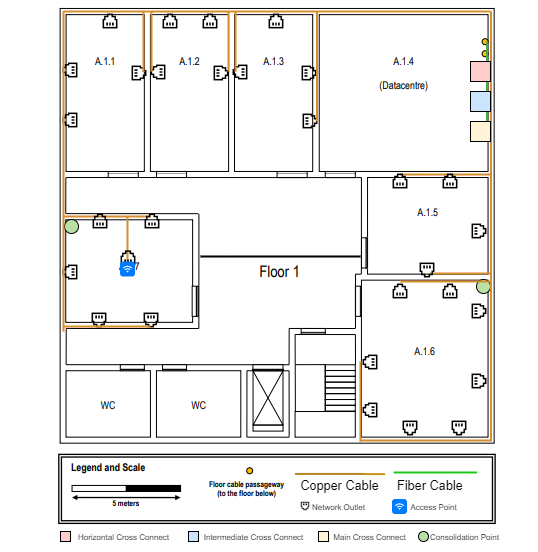
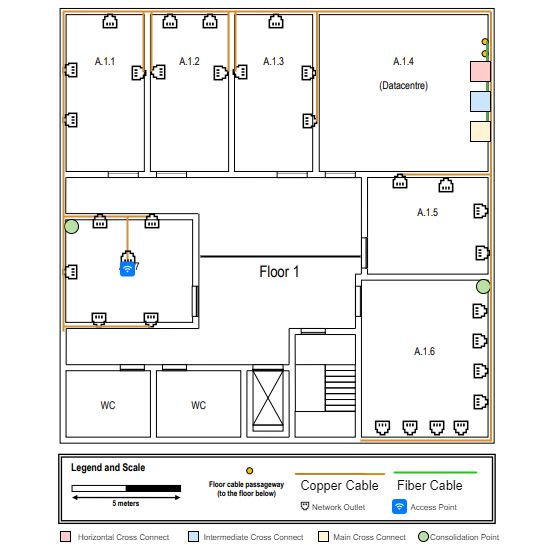
updated design

diff --git a/doc/sprint1/BuildingA_1211148/README.md b/doc/sprint1/BuildingA_1211148/README.md
@@ -250,8 +250,8 @@ Para calcular o comprimento de fio de cobre necessário para o access point, foi
 |   A.1.2 |       4       | 4 * (18.06 + 2,5 + 1) = 86,24 m  |
 |   A.1.3 |       4       | 4 * (13.88 + 2,5 + 1) = 69,52 m  |
 |   A.1.4 |       0       |                0                 |
-|   A.1.5 |       4       | 4 * (10,50 + 2,5 + 1) = 56,00 m  |
-|   A.1.6 |       8       | 8 * (17,36 + 2,5 + 1) = 166,88 m |
+|   A.1.5 |       4       |        4 * ( + 2,5 + 1) =        |
+|   A.1.6 |       8       |        8 * ( + 2,5 + 1) =        |
 |   A.1.7 |     5 + 1     | 5 * (36,25 + 2,5 + 1) = 198,75 m |
 
 1 Access Point:
@@ -261,7 +261,7 @@ Para calcular o comprimento de fio de cobre necessário para o access point, foi
 -> 4 * (11,50 + 2,50 + 1) = 48,00 m
 -> 4 * (32,50 + 2,50 + 1) = 144,00 m
 
-Total: 914,15 m + 45,71 m (margem de segurança de 5%) = 959.86 m
+Total:  (margem de segurança de 5%) = 
 
 * Fibra ótica de modo único
 
